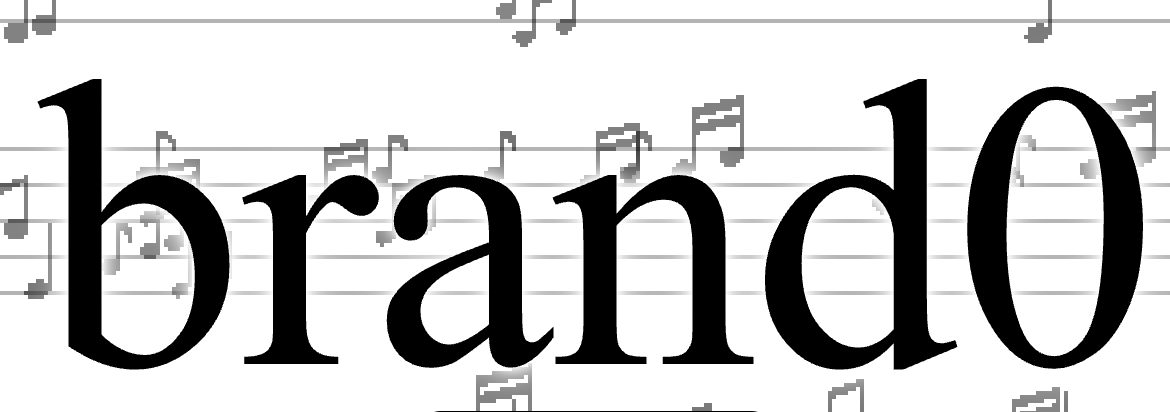
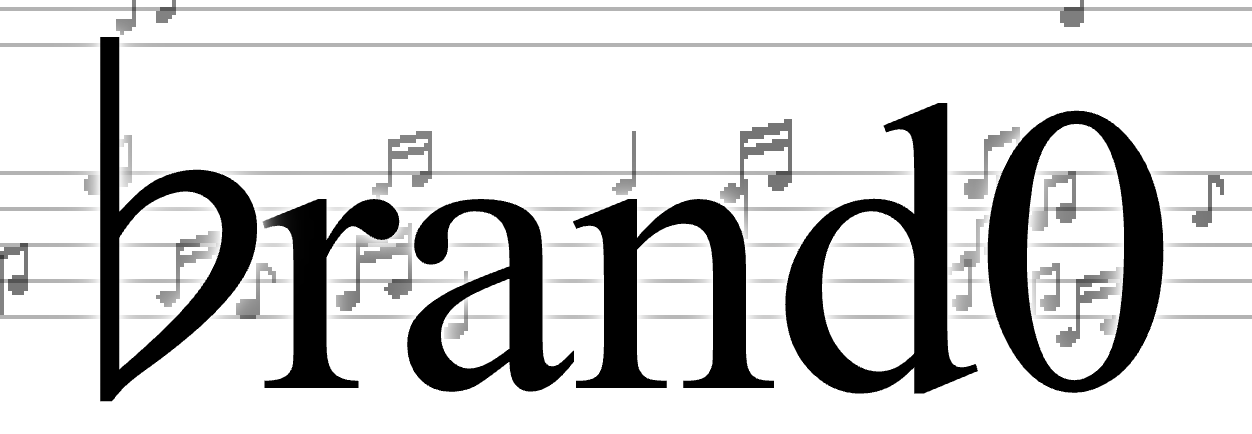
flat symbol

diff --git a/index.html b/index.html
@@ -64,6 +64,15 @@
       pointer-events: none;
       text-shadow:
         0 0 20px #FFF, 0 0 12px #FFF, 0 0 6px #FFF, 0 0 3px #FFF;
+      transform: translateX(0.04em);
+    }
+    #brand .flat {
+      display: inline-block;
+      line-height: 0.85;
+      vertical-align: baseline;
+      margin-left: -0.25em;
+      margin-right: -0.25em;
+      transform: translateY(-0.04em);
     }
 
     #debug {
@@ -376,7 +385,7 @@
 <div id="debug" hidden></div>
 
 <div id="hero">
-  <div id="brand">brand0</div>
+  <div id="brand" aria-label="brand0"><span class="flat">♭</span>rand0</div>
   <div id="menu-trigger" role="button" tabindex="0" aria-haspopup="dialog" aria-controls="menu-overlay">press start</div>
 </div>
 
